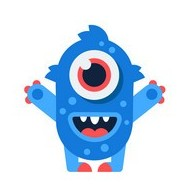
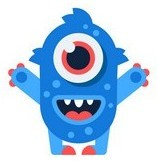
Amended monster images
Inserted new monster images

diff --git a/public/scripts/site-bundle.js b/public/scripts/site-bundle.js
@@ -1,2 +1,2 @@
-(()=>{gsap.from(".letter",{duration:4,y:-200,stagger:.5,ease:"bounce"}),gsap.from("#t",{rotation:"+=360",duration:1,color:"purple",delay:4.5}),gsap.from("#a",{rotation:"+=360",duration:1,color:"pink",delay:5}),gsap.from("#y",{rotation:"+=360",duration:1,color:"green",delay:5.5}),gsap.from("#l",{rotation:"+=360",duration:1,color:"red",delay:6}),gsap.from("#aa",{rotation:"+=360",duration:1,color:"blue",delay:6.5}),gsap.from("#dot",{rotation:"+=360",duration:1,color:"green",delay:7}),gsap.from("#i",{rotation:"+=360",duration:1,color:"yellow",delay:7.5}),gsap.from("#o",{rotation:"+=360",duration:1,color:"orange",delay:8});const e=gsap.timeline({ease:Linear.easeNone,repeat:-1});e.to("#animation",{rotation:"+=360"}).pause();const o=document.querySelector("#checkbox");o.addEventListener("click",(a=>{!0===o.checked?e.resume():!1===o.checked&&e.pause()}));const a=gsap.timeline({repeat:-1}).timeScale(.5);a.to(".monsters",{y:90,rotation:"+=360",stagger:.25,ease:"elastic"}).pause(),document.querySelector("#start").addEventListener("click",(e=>{a.resume()})),document.querySelector("#pause").addEventListener("click",(e=>{a.pause()})),gsap.to(".tiles",{duration:3,repeat:-1,scale:0,y:40,ease:"back",stagger:{grid:"auto",from:"start",amount:1.5}}),gsap.to(".box",{y:100,stagger:{each:.1,from:"center",grid:"auto",ease:"power2.inOut",repeat:-1}})})();
+(()=>{gsap.from(".letter",{duration:4,y:-200,stagger:.5,ease:"bounce"}),gsap.from("#t",{rotation:"+=360",duration:1,color:"purple",delay:4.5}),gsap.from("#a",{rotation:"+=360",duration:1,color:"pink",delay:5}),gsap.from("#y",{rotation:"+=360",duration:1,color:"green",delay:5.5}),gsap.from("#l",{rotation:"+=360",duration:1,color:"red",delay:6}),gsap.from("#aa",{rotation:"+=360",duration:1,color:"blue",delay:6.5}),gsap.from("#dot",{rotation:"+=360",duration:1,color:"green",delay:7}),gsap.from("#i",{rotation:"+=360",duration:1,color:"yellow",delay:7.5}),gsap.from("#o",{rotation:"+=360",duration:1,color:"orange",delay:8});const e=gsap.timeline({ease:Linear.easeNone,repeat:-1});e.to("#animation",{rotation:"+=360"}).pause();const o=document.querySelector("#checkbox");o.addEventListener("click",(a=>{!0===o.checked?e.resume():!1===o.checked&&e.pause()}));const a=gsap.timeline({repeat:-1}).timeScale(.5);a.to(".monsters",{y:90,rotation:"+=360",stagger:.25,ease:"elastic"}).pause(),document.querySelector("#start").addEventListener("click",(e=>{a.resume()})),document.querySelector("#pause").addEventListener("click",(e=>{a.pause()})),gsap.to(".tiles",{duration:3,repeat:-1,scale:0,ease:"back",stagger:{grid:"auto",from:"start",amount:1.5}})})();
 //# sourceMappingURL=site-bundle.js.map

diff --git a/public/styles.css b/public/styles.css
@@ -1,7 +1,11 @@
 * {
     margin: 0;
     padding: 0;
-    
+}
+
+body {
+    height: auto;
+    width: 100vw;
 }
 
 #page-container {
@@ -32,7 +36,8 @@
     height: 100%;
     width: 100%;
     margin: auto;
-    padding: 10px;
+    margin-top: 10px;
+    margin-bottom: 10px;
 }
 
 .letter {
@@ -127,38 +132,38 @@
     margin: auto;
     margin-top: 20px;
     margin-bottom: 20px;
-    height: 200px;
-    width: 300px;
+    height: 250px;
+    width: 350px;
     border: 3px solid black;
 }
 
 .monsters {
     position: relative;
     z-index: -1;
-    height: 75px;
-    width: 75px;
+    height: 100px;
+    width: 100px;
     margin: 10px;
+    background-size: 100px 100px;
 }
 
 #monster1 {
     background-image: url('./images/monster1.jpg');
-    background-size: cover;
 }
 
 #monster2 {
     background-image: url('./images/monster2.jpg');
-    background-size: cover;
 }
 
 #monster3 {
     background-image: url('./images/monster3.jpg');
-    background-size: cover;
 }
 
 #buttons {
     display: flex;
     align-items: center;
     justify-content: center;
+    height: auto;
+    width: 100%;
 }
 
 .operator {
@@ -183,13 +188,14 @@
     margin: auto;
     margin-top: 20px;
     margin-bottom: 20px;
+    background-color: black;
 }
 
 .tiles {
     height: 20px;
     width: 20px;
     margin: 2px;
-    background-color: red;
+    background-color: lime;
     border: 1px solid black;
 }
 
@@ -291,11 +297,13 @@
 
     #monster-container {
         width: 250px;
+        height: 180px;
     }
 
     .monsters {
         height: 55px;
         width: 55px;
+        background-size: 55px 55px;
     }
 
     #footer {

diff --git a/src/site.js b/src/site.js
@@ -45,7 +45,7 @@ gsap.to(".tiles", {
     duration: 3,
     repeat: -1,
     scale: 0,
-    y: 40,
+    // y: 40,
     ease: "back",
     stagger: {
       grid: "auto",
@@ -54,17 +54,6 @@ gsap.to(".tiles", {
     }
   });
 
-  gsap.to(".box", {
-    y: 100,
-    stagger: {
-      // wrap advanced options in an object
-      each: 0.1,
-      from: "center",
-      grid: "auto",
-      ease: "power2.inOut",
-      repeat: -1, // Repeats immediately, not waiting for the other staggered animations to finish
-    },
-  });
 
 
 
